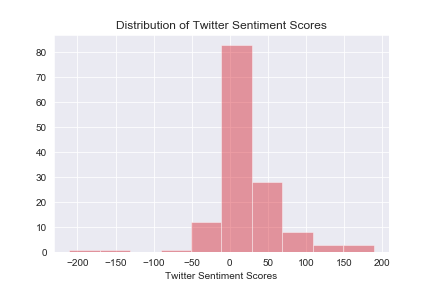
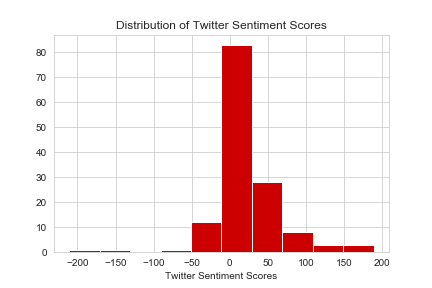
style changes

Changed region(s): [[0.1204, 0.0938, 0.9028, 0.9062]]

diff --git a/python_scripts/regression_model.py b/python_scripts/regression_model.py
@@ -21,8 +21,7 @@ STOCK_DATABASE_PATH = "../data/stock_data.db"
 RNN_DATABASE_PATH = "../data/rnn_data.db"
 x = Preprocess(STOCK_DATABASE_PATH, RNN_DATABASE_PATH)
 numpy_data, df_data, numpy_vanilla_rnn_data, df_vanilla_rnn_data = x.get_data()
-sns.set_style("ticks")
-sns.set_style("darkgrid")
+sns.set_style("whitegrid")
 print(sns.axes_style())
 
 
@@ -38,7 +37,7 @@ plt.show()
 
 # Seaborn Histogram
 # Histogram of Sentiments
-sns.distplot(np.array(df_data['Twitter Score']), kde=False, color="#D50E1D", axlabel="Twitter Sentiment Scores", bins=10).set_title("Distribution of Twitter Sentiment Scores")
+sns.distplot(np.array(df_data['Twitter Score']), hist_kws=dict(alpha=1), kde=False, color="#cc0000", axlabel="Twitter Sentiment Scores", bins=10).set_title("Distribution of Twitter Sentiment Scores")
 plt.savefig("../images/sentiment_histogram.png")
 plt.show()
 
@@ -101,20 +100,21 @@ test_hours = hours_clipped[split_point:]
 # ========================================================================== #
 
 #Quick plot to show twitter data next to stock data
-fig = plt.figure(0)
-host = fig.add_subplot(111)
+with sns.axes_style("white"):
+    fig = plt.figure(0)
+    host = fig.add_subplot(111)
+    
+    par1 = host.twinx()
+    host.set_xlabel('Date')
+    host.set_ylabel('Twitter Sentiment Scores')
+    par1.set_ylabel('Tesla Share Price (USD)')
+    host.set_title('Tesla Share Price vs. Twitter Sentiment Analysis Scores')
 
-par1 = host.twinx()
-host.set_xlabel('Date')
-host.set_ylabel('Twitter Sentiment Scores')
-par1.set_ylabel('Tesla Share Price (USD)')
-host.set_title('Tesla Share Price vs. Twitter Sentiment Analysis Scores')
-
-p1, = host.plot(hours, df_data['Twitter Score'], '-r', label='Twitter Sentiment Scores')
-p2, = par1.plot(hours, df_data['Close'], label="Tesla Share Price (USD)")
-host.legend(handles=[p1,p2], loc='best')
-fig.autofmt_xdate()
-plt.show()
+    p1, = host.plot(hours, df_data['Twitter Score'], '-r', color="#cc0000", label='Twitter Sentiment Scores')
+    p2, = par1.plot(hours, df_data['Close'], label="Tesla Share Price (USD)", color="#641499")
+    host.legend(handles=[p1,p2], loc='best')
+    fig.autofmt_xdate()
+    plt.show()
 
 # ========================================================================== #
 
@@ -139,8 +139,8 @@ print('\n')
 # plt.show()
 
 # Seaborn
-ax = sns.scatterplot(x=test_hours, y=y_test)
-sns.lineplot(x=test_hours, y=lin.predict(X_test),
+ax = sns.scatterplot(x=test_hours, y=y_test, color="#558cf2")#f59505
+sns.lineplot(x=test_hours, y=lin.predict(X_test), color="#cc0000",
              ax=ax).set_title("Linear Regression of Stock Price vs. Twitter Sentiment")
 plt.legend(['Predicted Model','Raw data'], loc='best')
 plt.xlabel('Twitter Sentiment')
@@ -211,9 +211,9 @@ print('\n')
 # plt.show()
 
 # Seaborn
-ax = sns.scatterplot(x=test_hours, y=y_test)
+ax = sns.scatterplot(x=test_hours, y=y_test, color="#558cf2")
 sns.lineplot(x=test_hours, y=lin2.predict(poly.fit_transform(X_test)),
-             ax=ax).set_title('Polynomial Regression (2nd degree) of Stock Price vs. Twitter Sentiment')
+             ax=ax, color="#cc0000").set_title('Polynomial Regression (2nd degree) of Stock Price vs. Twitter Sentiment')
 plt.legend(['Predicted Model','Raw data'], loc='best')
 plt.xlabel('Twitter Sentiment')
 plt.ylabel('TSLA Share Close Price - TSLA Share Open Price (USD)')
@@ -244,7 +244,7 @@ p_values = results.pvalues
 data = np.asarray(p_values.to_numpy()[1:5]).reshape(4,1)
 color_map = cm.get_cmap('Reds', 256)
 sns.heatmap(data, vmax=0.6, annot=True, yticklabels=p_values.index.to_numpy()[1:5], 
-            cmap=color_map, xticklabels=["p-value"]).set_title("P-Values of Independent Variables in Multiple Regression Model")
+            cmap=color_map, xticklabels=["p-value"]).set_title("P-Values of Independent Variables in Linear Multiple Regression Model")
 plt.ylabel("Variable")
 plt.savefig('../images/heatmap.png', dpi=300)
 plt.show()
